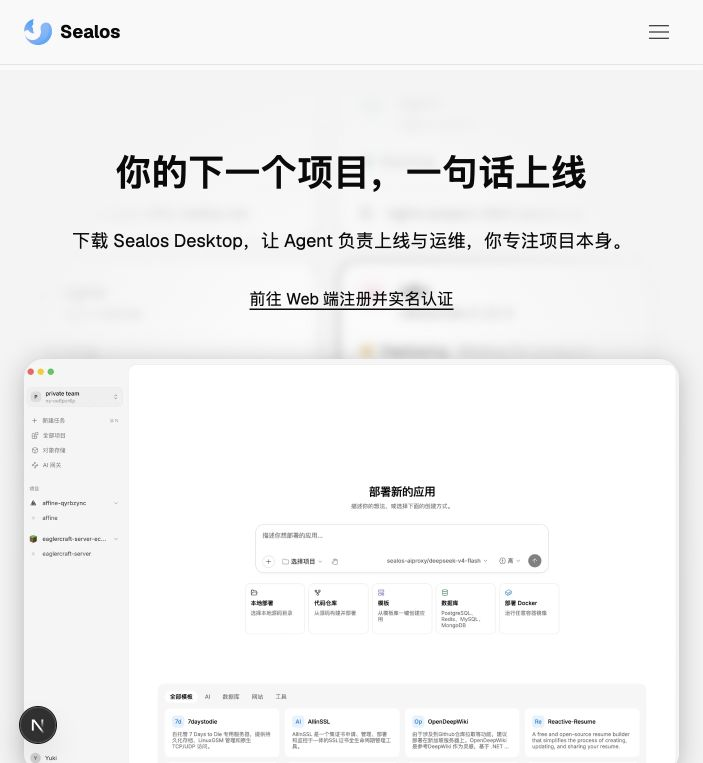
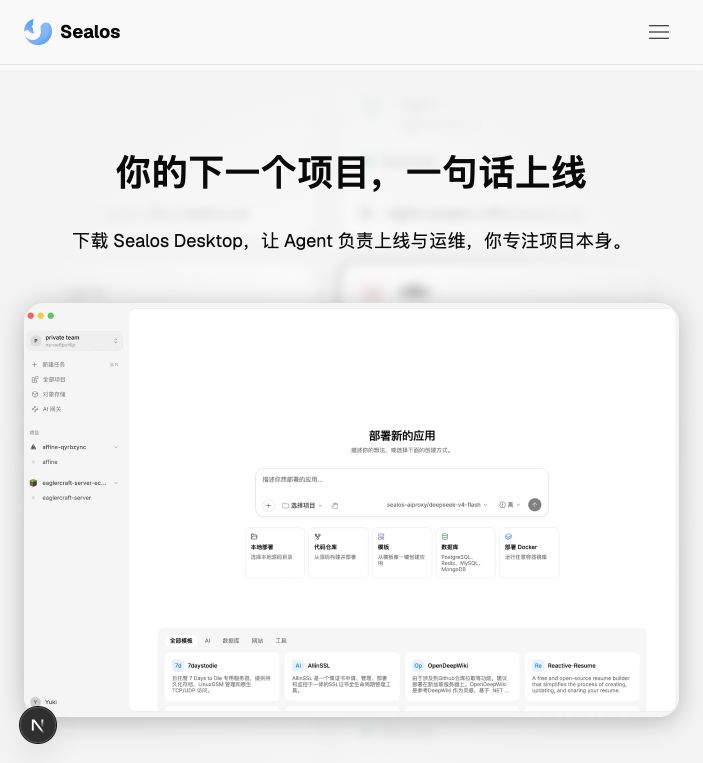
fix(invite): remove registration link absent from Paper

diff --git a/app/[locale]/(invite)/invite/[code]/sections/DownloadSection.tsx b/app/[locale]/(invite)/invite/[code]/sections/DownloadSection.tsx
@@ -1,8 +1,6 @@
 import Image from 'next/image';
-import { Link } from '@/libs/i18n/navigation';
 import { getTranslations } from '@/libs/i18n/server';
 import { appShotA, appShotB, desktopPreview } from '../assets';
-import { consoleInviteUrl } from '../utils/invite.config';
 import styles from './DownloadSection.module.css';
 
 // Seven rows of the original Paper assets fill the blurred backdrop.
@@ -14,7 +12,7 @@ const SHOT_ROWS = Array.from({ length: 7 }, (_, row) => ({
 	})),
 }));
 
-export async function DownloadSection({ code }: { code: string }) {
+export async function DownloadSection() {
 	const t = await getTranslations('pages.invite.download');
 
 	return (
@@ -53,12 +51,6 @@ export async function DownloadSection({ code }: { code: string }) {
 						{t('title')}
 					</h2>
 					<p className='text-lg leading-7 text-pretty lg:leading-4.5'>{t('subtitle')}</p>
-					<Link
-						href={consoleInviteUrl(code)}
-						className='mx-auto underline underline-offset-4 focus-visible:outline-2 focus-visible:outline-offset-4'
-					>
-						{t('register')}
-					</Link>
 				</div>
 				<Image
 					src={desktopPreview}

diff --git a/app/[locale]/(invite)/invite/[code]/page.tsx b/app/[locale]/(invite)/invite/[code]/page.tsx
@@ -38,7 +38,7 @@ export default async function InvitePage({ params }: PageProps) {
 	return (
 		<div className='flex w-full flex-col'>
 			<HeroSection preview={preview} />
-			<DownloadSection code={code} />
+			<DownloadSection />
 			<RulesSection />
 		</div>
 	);
